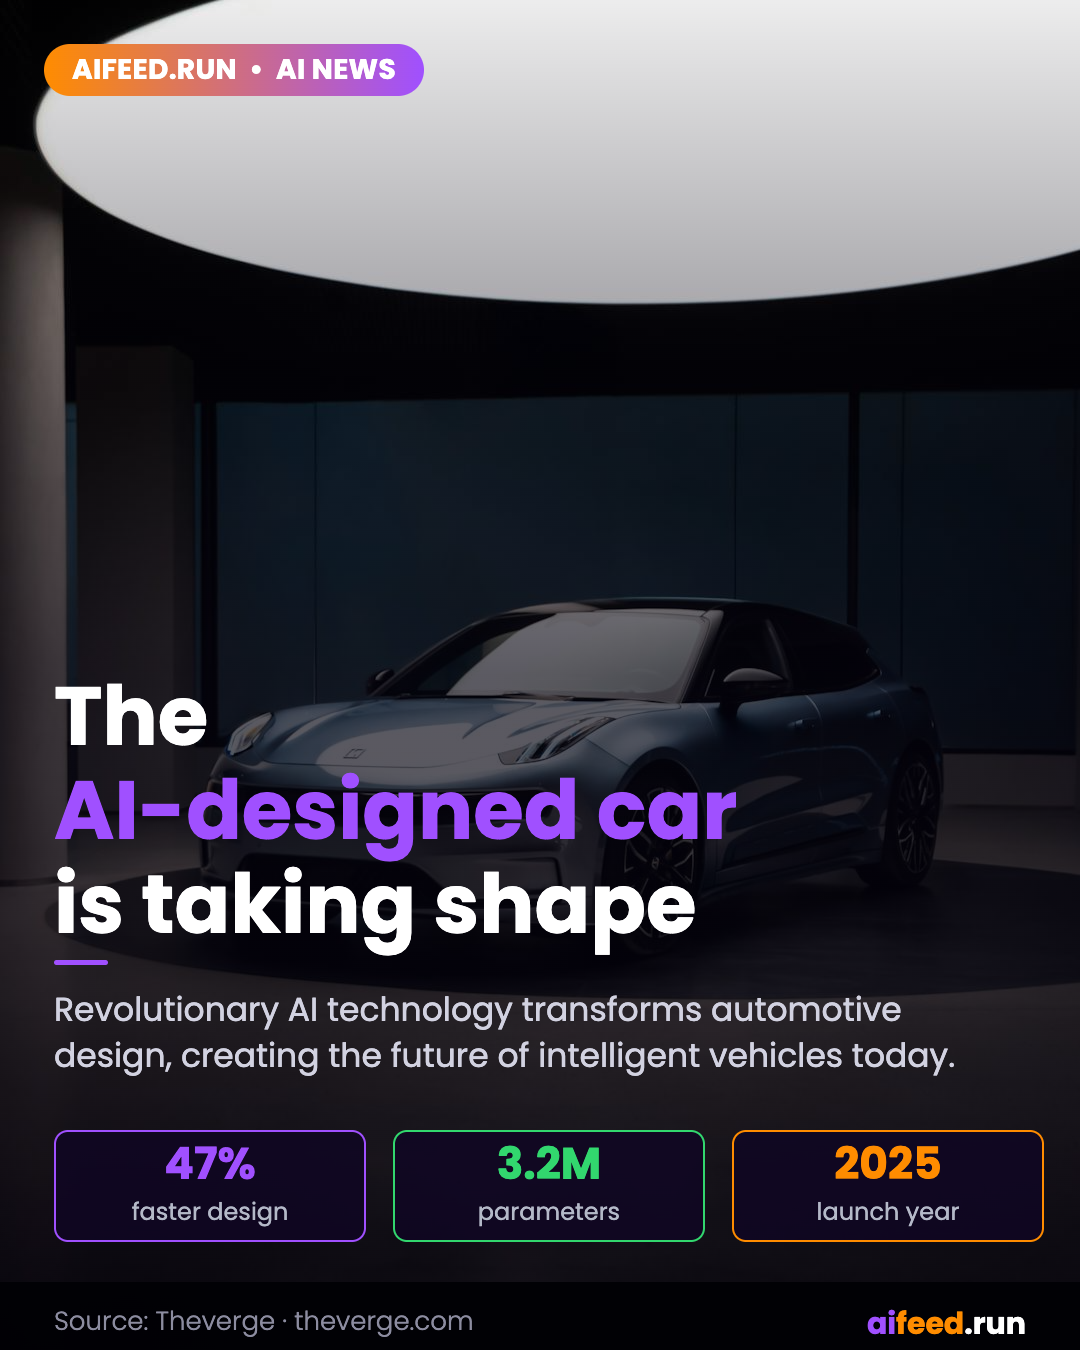
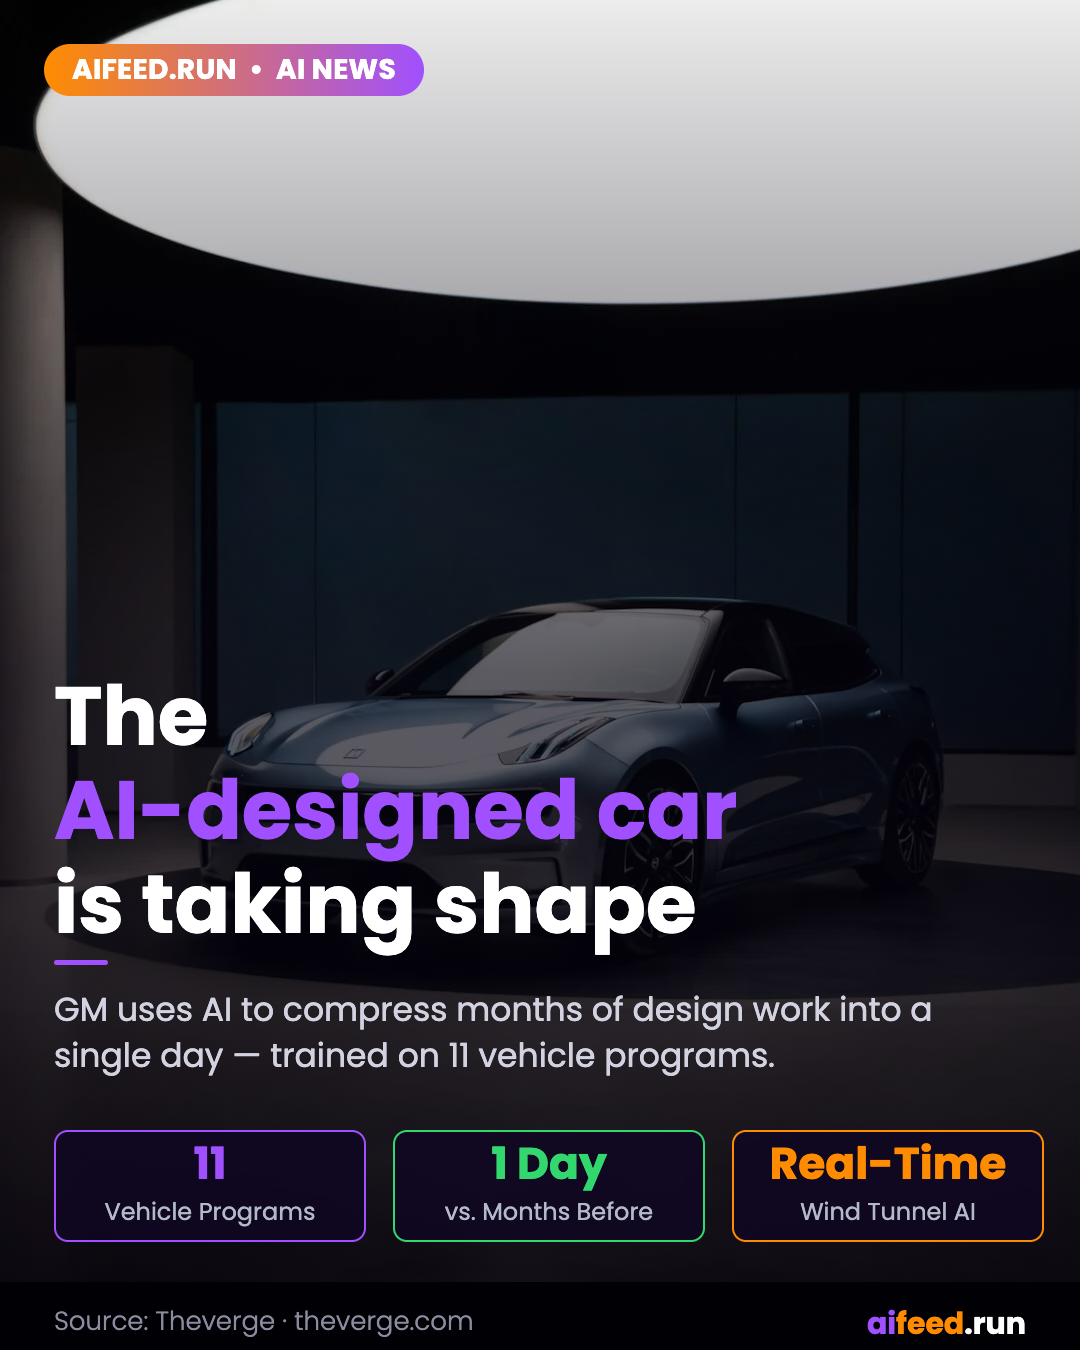
Fix car graphic: correct stats from article (11 programs, 1 day, real-time)

diff --git a/graphics/aifeed_the_aidesigned_car_is_taking_shape_1777294794260.html b/graphics/aifeed_the_aidesigned_car_is_taking_shape_1777294794260.html
@@ -1,1 +1,1 @@
-<!DOCTYPE html><html><head><meta charset="UTF-8"><link rel="preconnect" href="https://fonts.googleapis.com"><link rel="preconnect" href="https://fonts.gstatic.com" crossorigin><link href="https://fonts.googleapis.com/css2?family=Poppins:wght@300;400;700&display=swap" rel="stylesheet"><style>html,body{margin:0;padding:0;overflow:hidden;background:#04020e}*{box-sizing:border-box}body{width:1080px;height:1350px}.c{position:relative;width:1080px;height:1350px;overflow:hidden}.bg{position:absolute;top:0;left:0;width:1080px;height:1350px;object-fit:cover;object-position:top center}.ov{position:absolute;inset:0;background:linear-gradient(to bottom,rgba(4,2,14,.04) 0%,rgba(4,2,14,.65) 50%,rgba(4,2,14,.70) 100%)}.pill{position:absolute;top:44px;left:44px;background:linear-gradient(to right,#ff8c00,#a050ff);height:52px;border-radius:26px;padding:0 28px;display:inline-flex;align-items:center;font-family:"Poppins",sans-serif;font-size:28px;font-weight:700;color:#fff;white-space:nowrap;letter-spacing:.3px}.hb{position:absolute;top:670px;left:54px;right:54px;max-height:455px;overflow:hidden}.hl{font-family:"Poppins",sans-serif;font-size:82px;font-weight:700;line-height:94px;display:block}.hw{color:#ffffff}.hp{color:#a050ff}.hu{display:block;width:54px;height:5px;background:#a050ff;border-radius:3px;margin-top:8px}.sub{font-family:"Poppins",sans-serif;font-size:33px;font-weight:400;color:#d2d2e1;line-height:46px;margin-top:22px}.cards{position:absolute;top:1130px;left:54px;display:flex;gap:27px}.card{width:312px;height:112px;background:rgba(15,5,35,.82);border-radius:14px;border:2px solid;position:relative}.c1{border-color:#a050ff}.c2{border-color:#32d76e}.c3{border-color:#ff8c00}.cv{font-family:"Poppins",sans-serif;font-size:44px;font-weight:700;text-align:center;position:absolute;top:10px;left:0;right:0;line-height:1}.c1 .cv{color:#a050ff}.c2 .cv{color:#32d76e}.c3 .cv{color:#ff8c00}.cl{font-family:"Poppins",sans-serif;font-size:24px;font-weight:400;color:#b4b9c8;text-align:center;position:absolute;top:66px;left:0;right:0;line-height:1.2}.bar{position:absolute;bottom:0;left:0;right:0;height:68px;background:rgba(0,0,4,.92)}.bsrc{position:absolute;left:54px;top:20px;font-family:"Poppins",sans-serif;font-size:26px;font-weight:300;color:#8c8ca0;white-space:nowrap;max-width:700px;overflow:hidden;text-overflow:ellipsis}.blogo{position:absolute;right:54px;top:19px;font-family:"Poppins",sans-serif;font-size:30px;font-weight:700}.bai{color:#a050ff}.bfd{color:#ff8c00}.brn{color:#fff}</style></head><body><div class="c"><img class="bg" src="https://images.pexels.com/photos/29802105/pexels-photo-29802105.jpeg?auto=compress&cs=tinysrgb&fit=crop&h=1350&w=1080" alt=""><div class="ov"></div><div class="pill">AIFEED.RUN  •  AI NEWS</div><div class="hb"><span class="hl hw">The</span><span class="hl hp">AI-designed car</span><span class="hl hw">is taking shape</span><span class="hu"></span><div class="sub">Revolutionary AI technology transforms automotive design, creating the future of intelligent vehicles today.</div></div><div class="cards"><div class="card c1"><div class="cv">47%</div><div class="cl">faster design</div></div><div class="card c2"><div class="cv">3.2M</div><div class="cl">parameters</div></div><div class="card c3"><div class="cv">2025</div><div class="cl">launch year</div></div></div><div class="bar"><div class="bsrc">Source: Theverge · theverge.com</div><div class="blogo"><span class="bai">ai</span><span class="bfd">feed</span><span class="brn">.run</span></div></div></div></body></html>
+<!DOCTYPE html><html><head><meta charset="UTF-8"><link rel="preconnect" href="https://fonts.googleapis.com"><link rel="preconnect" href="https://fonts.gstatic.com" crossorigin><link href="https://fonts.googleapis.com/css2?family=Poppins:wght@300;400;700&display=swap" rel="stylesheet"><style>html,body{margin:0;padding:0;overflow:hidden;background:#04020e}*{box-sizing:border-box}body{width:1080px;height:1350px}.c{position:relative;width:1080px;height:1350px;overflow:hidden}.bg{position:absolute;top:0;left:0;width:1080px;height:1350px;object-fit:cover;object-position:top center}.ov{position:absolute;inset:0;background:linear-gradient(to bottom,rgba(4,2,14,.04) 0%,rgba(4,2,14,.65) 50%,rgba(4,2,14,.70) 100%)}.pill{position:absolute;top:44px;left:44px;background:linear-gradient(to right,#ff8c00,#a050ff);height:52px;border-radius:26px;padding:0 28px;display:inline-flex;align-items:center;font-family:"Poppins",sans-serif;font-size:28px;font-weight:700;color:#fff;white-space:nowrap;letter-spacing:.3px}.hb{position:absolute;top:670px;left:54px;right:54px;max-height:455px;overflow:hidden}.hl{font-family:"Poppins",sans-serif;font-size:82px;font-weight:700;line-height:94px;display:block}.hw{color:#ffffff}.hp{color:#a050ff}.hu{display:block;width:54px;height:5px;background:#a050ff;border-radius:3px;margin-top:8px}.sub{font-family:"Poppins",sans-serif;font-size:33px;font-weight:400;color:#d2d2e1;line-height:46px;margin-top:22px}.cards{position:absolute;top:1130px;left:54px;display:flex;gap:27px}.card{width:312px;height:112px;background:rgba(15,5,35,.82);border-radius:14px;border:2px solid;position:relative}.c1{border-color:#a050ff}.c2{border-color:#32d76e}.c3{border-color:#ff8c00}.cv{font-family:"Poppins",sans-serif;font-size:44px;font-weight:700;text-align:center;position:absolute;top:10px;left:0;right:0;line-height:1}.c1 .cv{color:#a050ff}.c2 .cv{color:#32d76e}.c3 .cv{color:#ff8c00}.cl{font-family:"Poppins",sans-serif;font-size:24px;font-weight:400;color:#b4b9c8;text-align:center;position:absolute;top:66px;left:0;right:0;line-height:1.2}.bar{position:absolute;bottom:0;left:0;right:0;height:68px;background:rgba(0,0,4,.92)}.bsrc{position:absolute;left:54px;top:20px;font-family:"Poppins",sans-serif;font-size:26px;font-weight:300;color:#8c8ca0;white-space:nowrap;max-width:700px;overflow:hidden;text-overflow:ellipsis}.blogo{position:absolute;right:54px;top:19px;font-family:"Poppins",sans-serif;font-size:30px;font-weight:700}.bai{color:#a050ff}.bfd{color:#ff8c00}.brn{color:#fff}</style></head><body><div class="c"><img class="bg" src="https://images.pexels.com/photos/29802105/pexels-photo-29802105.jpeg?auto=compress&cs=tinysrgb&fit=crop&h=1350&w=1080" alt=""><div class="ov"></div><div class="pill">AIFEED.RUN  •  AI NEWS</div><div class="hb"><span class="hl hw">The</span><span class="hl hp">AI-designed car</span><span class="hl hw">is taking shape</span><span class="hu"></span><div class="sub">GM uses AI to compress months of design work into a single day — trained on 11 vehicle programs.</div></div><div class="cards"><div class="card c1"><div class="cv">11</div><div class="cl">Vehicle Programs</div></div><div class="card c2"><div class="cv">1 Day</div><div class="cl">vs. Months Before</div></div><div class="card c3"><div class="cv">Real-Time</div><div class="cl">Wind Tunnel AI</div></div></div><div class="bar"><div class="bsrc">Source: Theverge · theverge.com</div><div class="blogo"><span class="bai">ai</span><span class="bfd">feed</span><span class="brn">.run</span></div></div></div></body></html>
